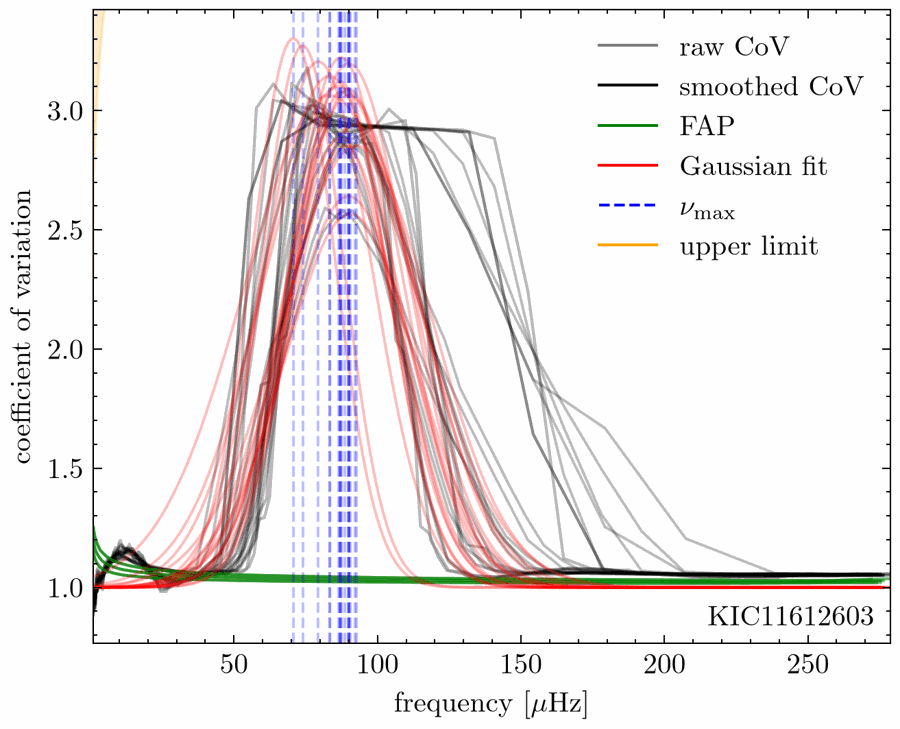
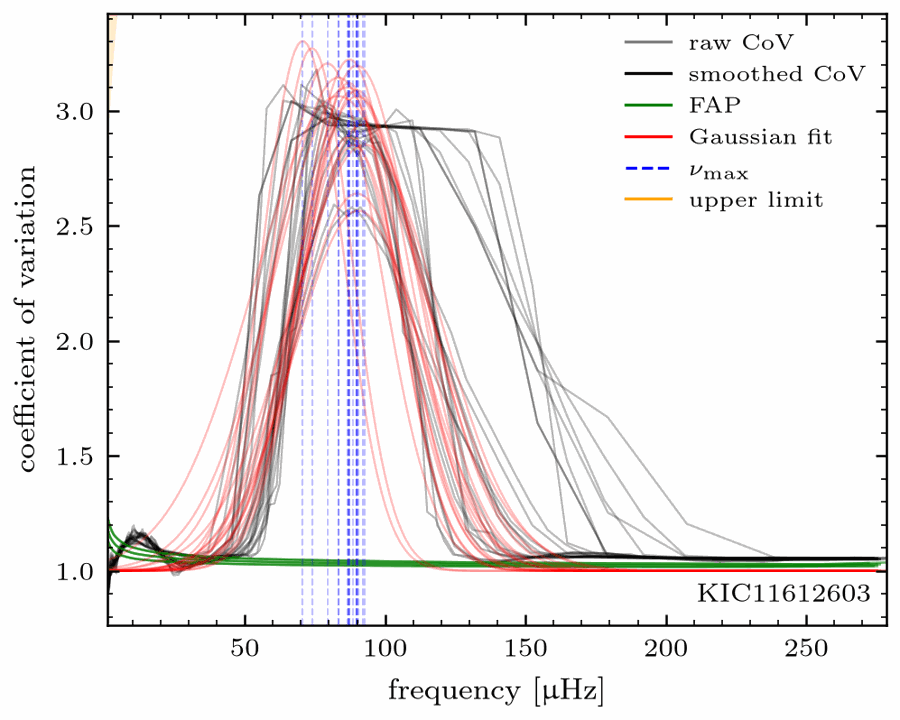
Figures one A&A column wide (8.8 cm), optional pdf output, upright mu
- All figures COLUMN_WIDTH = 8.8 cm, A&A font sizes (applied only while plotting)
- CONFIG.figure_format: png, pdf or [png, pdf]; spectra and 2D ACF rasterised at 600 dpi
  inside pdf files
- Upright mu (\upmu with LaTeX, unicode otherwise), "bin center", PSD in ppm^2/muHz
- README example figures regenerated

Changed region(s): [[0.0, 0.0, 0.9956, 0.9778]]

diff --git a/src/numax_proxies/plotting.py b/src/numax_proxies/plotting.py
@@ -1,4 +1,6 @@
-"""All figures. Each function saves into <results_directory>/<target>/figures/."""
+"""All figures, one A&A column wide (8.8 cm). Each function saves into
+<results_directory>/<target>/figures/ in the formats of CONFIG.figure_format (png, pdf)."""
+import functools
 from pathlib import Path
 
 import matplotlib
@@ -16,6 +18,46 @@ try:
 except ImportError:  # style is optional
     pass
 
+COLUMN_WIDTH = 8.8 / 2.54          # A&A column [inch]
+DPI = 300                          # png
+PDF_RASTER_DPI = 600               # rasterised parts (spectra, 2D ACF) inside pdf files
+AA_RC = {                          # applied only while the package draws a figure
+    "font.size": 8, "axes.labelsize": 8, "axes.titlesize": 8,
+    "xtick.labelsize": 7, "ytick.labelsize": 7, "legend.fontsize": 6,
+    "legend.title_fontsize": 6, "lines.linewidth": 0.8, "axes.linewidth": 0.6,
+    "xtick.major.width": 0.6, "ytick.major.width": 0.6,
+    "xtick.minor.width": 0.4, "ytick.minor.width": 0.4,
+}
+
+
+def _aa_style(func):
+    """Draw func's figure with AA_RC (and upgreek for an upright mu when LaTeX is used)."""
+    @functools.wraps(func)
+    def wrapper(*args, **kwargs):
+        rc = dict(AA_RC)
+        if plt.rcParams["text.usetex"]:
+            preamble = plt.rcParams["text.latex.preamble"]
+            if "upgreek" not in preamble:
+                rc["text.latex.preamble"] = preamble + r" \usepackage{upgreek}"
+        with plt.rc_context(rc):
+            return func(*args, **kwargs)
+    return wrapper
+
+
+def _mu() -> str:
+    """Upright micro sign: \\upmu under LaTeX, the unicode character otherwise."""
+    return r"$\upmu$" if plt.rcParams["text.usetex"] else "μ"
+
+
+def _freq_label(name: str = "frequency") -> str:
+    """Axis label "<name> [μHz]"."""
+    return f"{name} [{_mu()}Hz]"
+
+
+def _psd_label() -> str:
+    """Axis label "PSD [ppm²/μHz]"."""
+    return f"PSD [ppm$^2$/{_mu()}Hz]"
+
 
 def _figdir(config, target) -> Path:
     """Figure folder <results_directory>/<target>/figures (created)."""
@@ -24,14 +66,24 @@ def _figdir(config, target) -> Path:
     return path
 
 
+def _save(fig, config, target, name: str):
+    """Save fig as <name>.<format> for every format in config.figure_format, then close it."""
+    folder = _figdir(config, target)
+    for fmt in config.figure_format:
+        fig.savefig(folder / f"{name}.{fmt}", bbox_inches="tight",
+                    dpi=PDF_RASTER_DPI if fmt == "pdf" else DPI)
+    plt.close(fig)
+
+
 def _set_xlim(ax, cfg, fallback_max):
     """Set the x range to [min_freq, max_freq or fallback_max]."""
     ax.set_xlim(cfg.min_freq, cfg.max_freq if cfg.max_freq is not None else fallback_max)
 
 
 # --------------------------------------------------------------------------------------
+@_aa_style
 def plot_lightcurve_and_psd(lc, psd, config, target, trend=None, raw_flux=None):
-    """Save lc_and_pg.png: light curve (and Savitzky-Golay trend) and PSD.
+    """Save lc_and_pg: light curve (and Savitzky-Golay trend) and PSD.
 
     Args:
         lc: LightCurveData.
@@ -40,20 +92,20 @@ def plot_lightcurve_and_psd(lc, psd, config, target, trend=None, raw_flux=None):
         target: star name.
         trend, raw_flux: Savitzky-Golay filter and flux before detrending (optional).
     """
-    fig, axs = plt.subplots(2, 1, figsize=(12, 8))
+    fig, axs = plt.subplots(2, 1, figsize=(COLUMN_WIDTH, 4.2))
     if trend is not None:
-        axs[0].plot(lc.time, raw_flux, c="k", lw=2)
-        axs[0].plot(lc.time, trend, c="r", lw=2)
-        axs[0].text(0.02, 0.98, f"Savitzky-Golay window: {config.savgol_window} d", color="r",
-                    ha="left", va="top", transform=axs[0].transAxes)
+        axs[0].plot(lc.time, raw_flux, c="k", rasterized=True)
+        axs[0].plot(lc.time, trend, c="r", rasterized=True)
+        axs[0].text(0.02, 0.97, f"Savitzky-Golay window: {config.savgol_window} d", color="r",
+                    ha="left", va="top", transform=axs[0].transAxes, fontsize=6)
     else:
-        axs[0].plot(lc.time, lc.flux, c="k", lw=0, ms=3, marker=".")
+        axs[0].plot(lc.time, lc.flux, c="k", lw=0, ms=1, marker=".", rasterized=True)
     axs[0].set(xlabel="time [days]", ylabel="rel. flux [ppm]", xlim=(lc.time.min(), lc.time.max()))
-    axs[1].loglog(psd.frequency, psd.psd, c="k")
-    axs[1].set(xlabel=r"frequency [$\mu$Hz]", ylabel="PSD",
+    axs[1].loglog(psd.frequency, psd.psd, c="k", lw=0.4, rasterized=True)
+    axs[1].set(xlabel=_freq_label(), ylabel=_psd_label(),
                xlim=(psd.frequency.min(), psd.frequency.max()))
-    fig.savefig(_figdir(config, target) / "lc_and_pg.png", dpi=300, bbox_inches="tight")
-    plt.close(fig)
+    fig.tight_layout()
+    _save(fig, config, target, "lc_and_pg")
 
 
 # --------------------------------------------------------------------------------------
@@ -73,14 +125,14 @@ def plot_acf_map(ax, method):
     """Draw the 2D ACF of one grid setting into ax.
 
     Colour: r(k) / white-noise sd, blue = anticorrelated, white = noise, red = correlated.
-    Lag axis: units of Delta-nu(bin centre) for collapse delta_nu, muHz for all_lags.
+    Lag axis: units of Delta-nu(bin center) for collapse delta_nu, muHz for all_lags.
 
     Args:
         ax: matplotlib axes.
         method: NumaxFromACF after compute().
     """
     from .binning import log_numax_bins
-    from .methods.acf import acf_map
+    from .methods.acf import acf_map, band_edges
 
     cfg = method.cfg
     scale, factor = _acf_map_setting(cfg, method.results)
@@ -93,52 +145,54 @@ def plot_acf_map(ax, method):
     ax.pcolormesh(centres, lags, z, shading="nearest", cmap=ACF_MAP_CMAP, vmin=-4, vmax=4,
                   rasterized=True)
     if in_dnu:
-        from .methods.acf import band_edges
         lo, hi = band_edges(cfg.dnu_multiples, cfg.dnu_window, cfg.dnu_window_mode)
         hi[:-1] = np.minimum(hi[:-1], lo[1:])                    # trimmed like the lag bands
         for edge in np.concatenate([lo, hi]):
             if edge < factor:
-                ax.axhline(edge, c="k", ls=":", lw=0.8)
-        ax.set(ylabel=r"lag [$\Delta\nu(\nu_c)$]", ylim=(0, factor))
+                ax.axhline(edge, c="k", ls=":", lw=0.5)
+        ax.set(ylabel=r"lag [$\Delta\nu(\nu_\mathrm{c})$]", ylim=(0, factor))
     else:
-        ax.set(ylabel=r"lag [$\mu$Hz]", ylim=(0, lags[-1]))
-    ax.text(0.98, 0.95, f"overlap {scale:g}, width {factor:g}", ha="right", va="top",
-            transform=ax.transAxes, fontsize=7,
-            bbox=dict(facecolor="white", alpha=0.7, lw=0))
+        ax.set(ylabel=_freq_label("lag"), ylim=(0, lags[-1]))
+    ax.text(0.98, 0.96, f"overlap {scale:g}, width {factor:g}", ha="right", va="top",
+            transform=ax.transAxes, fontsize=6,
+            bbox=dict(facecolor="white", alpha=0.7, lw=0, pad=1))
 
 
+@_aa_style
 def plot_acf(method):
-    """Save ACF.png: spectrum, optional 2D ACF panel, CACF curves, thresholds and fits.
+    """Save ACF: spectrum, optional 2D ACF panel, CACF curves, thresholds and fits.
 
     Args:
         method: NumaxFromACF after compute().
     """
     cfg, results = method.cfg, method.results
     show_map = cfg.plot_2dacf is not False
-    fig, axs = plt.subplots(3 if show_map else 2, 1, figsize=(5, 10.5 if show_map else 7))
+    fig, axs = plt.subplots(3 if show_map else 2, 1,
+                            figsize=(COLUMN_WIDTH, 6.9 if show_map else 4.6))
     if show_map:
         plot_acf_map(axs[1], method)
         axs = [axs[0], axs[2], axs[1]]          # [spectrum, CACF, map]
 
     ax = axs[0]
-    ax.loglog(method.frequency, method.power, c="gray", label="spectrum")
+    ax.loglog(method.frequency, method.power, c="gray", lw=0.4, label="spectrum", rasterized=True)
     ax.loglog(method.frequency, method.med_filter, c="k", label="running median")
-    ax.set(xlabel=r"frequency [$\mu$Hz]", ylabel="PSD")
-    ax.text(0.02, 0.98, method.id, ha="left", va="top", transform=ax.transAxes)
+    ax.set(xlabel=_freq_label(), ylabel=_psd_label())
+    ax.text(0.02, 0.96, method.id, ha="left", va="top", transform=ax.transAxes, fontsize=7)
     ax.legend(loc="lower left")
     _set_xlim(ax, cfg, np.max(method.frequency))
 
     ax = axs[1]
     for data in results.values():
         bcs = np.asarray(data["bin_centers"])
-        ax.plot(bcs, data["cacf_raw"], c="gray", alpha=0.4, zorder=-3)
-        ax.plot(bcs, data["cacf_smoothed"], c="k", alpha=0.4, zorder=-2)
-        ax.plot(bcs, data["fap"], c="green", alpha=0.1, zorder=0)
+        ax.plot(bcs, data["cacf_raw"], c="gray", alpha=0.4, lw=0.5, zorder=-3)
+        ax.plot(bcs, data["cacf_smoothed"], c="k", alpha=0.4, lw=0.6, zorder=-2)
+        ax.plot(bcs, data["fap"], c="green", alpha=0.1, lw=0.6, zorder=0)
         p = data["fit_params"]
         if np.isfinite(p["numax"]):
             x = np.linspace(bcs.min(), bcs.max(), len(bcs) * 10)
-            ax.plot(x, gaussian(x, p["amp"], p["sigma"], p["numax"], p["y"]), c="r", alpha=0.4, zorder=-1)
-            ax.axvline(p["numax"], c="b", ls="--", alpha=0.3, zorder=1)
+            ax.plot(x, gaussian(x, p["amp"], p["sigma"], p["numax"], p["y"]), c="r", alpha=0.4,
+                    lw=0.6, zorder=-1)
+            ax.axvline(p["numax"], c="b", ls="--", lw=0.5, alpha=0.3, zorder=1)
     handles = [Line2D([0], [0], color="gray", label="raw CACF"),
                Line2D([0], [0], color="k", label="smoothed CACF"),
                Line2D([0], [0], color="r", label="Gaussian fit"),
@@ -147,44 +201,45 @@ def plot_acf(method):
     if method.initial_numax:
         ax.axvline(method.initial_numax, c="green", ls="-.")
         handles.append(Line2D([0], [0], color="green", ls="-.", label="initial guess"))
-    ax.legend(handles=handles)
+    ax.legend(handles=handles, loc="upper right")
     ylabel = "CACF" if cfg.collapse == "all_lags" else r"CACF ($\Delta\nu$ lags)"
-    ax.set(xlabel=r"frequency [$\mu$Hz]", ylabel=ylabel)
+    ax.set(xlabel=_freq_label(), ylabel=ylabel)
     xmax = max(np.max(d["bin_centers"]) for d in results.values())
     for a in ([ax, axs[2]] if show_map else [ax]):
         if cfg.plot_log_scale:
             a.set_xscale("log")
         _set_xlim(a, cfg, xmax)
     if show_map:
-        axs[2].set_xlabel(r"bin centre [$\mu$Hz]")
-
-    fig.savefig(_figdir(method.config, method.id) / "ACF.png", dpi=300, bbox_inches="tight")
-    plt.close(fig)
+        axs[2].set_xlabel(_freq_label("bin center"))
+    fig.tight_layout()
+    _save(fig, method.config, method.id, "ACF")
 
 
 # --------------------------------------------------------------------------------------
+@_aa_style
 def plot_cov(method):
-    """Save CoVs.png: CoV curves, thresholds, fits and the CoV upper limit.
+    """Save CoVs: CoV curves, thresholds, fits and the CoV upper limit.
 
     Args:
         method: NumaxFromCoV after compute().
     """
     cfg, results = method.cfg, method.results
-    fig, ax = plt.subplots(figsize=(5, 4))
+    fig, ax = plt.subplots(figsize=(COLUMN_WIDTH, 2.8))
     alpha = 0.25
     for data in results.values():
         bcs = np.asarray(data["bin_centers"])
-        ax.plot(bcs, data["cov"], c="gray", alpha=alpha, zorder=-5)
-        ax.plot(bcs, data["cov_smoothed"], c="k", alpha=alpha, zorder=-4)
-        ax.plot(bcs, data["fap"], c="green", alpha=alpha, zorder=-3)
+        ax.plot(bcs, data["cov"], c="gray", alpha=alpha, lw=0.5, zorder=-5)
+        ax.plot(bcs, data["cov_smoothed"], c="k", alpha=alpha, lw=0.6, zorder=-4)
+        ax.plot(bcs, data["fap"], c="green", alpha=alpha, lw=0.6, zorder=-3)
         p = data["fit_params"]
         if all(np.isfinite([p["amp"], p["sigma"], p["numax"]])):
             x = np.linspace(bcs.min(), bcs.max(), len(bcs) * 10)
-            ax.plot(x, gaussian_offset_one(x, p["amp"], p["sigma"], p["numax"]), c="r", alpha=alpha, zorder=-2)
-            ax.axvline(p["numax"], c="b", ls="--", alpha=alpha, zorder=-1)
+            ax.plot(x, gaussian_offset_one(x, p["amp"], p["sigma"], p["numax"]), c="r",
+                    alpha=alpha, lw=0.6, zorder=-2)
+            ax.axvline(p["numax"], c="b", ls="--", lw=0.5, alpha=alpha, zorder=-1)
     ymin, ymax = ax.get_ylim()
     x = np.linspace(1e-3, 1e4, 10000)
-    ax.fill_between(x, cov_upper_limit(x), 50, color="orange", alpha=0.2, zorder=-6)
+    ax.fill_between(x, cov_upper_limit(x), 50, color="orange", alpha=0.2, lw=0, zorder=-6)
     ax.set_ylim(ymin, ymax)
     handles = [Line2D([0], [0], color="gray", label="raw CoV"),
                Line2D([0], [0], color="k", label="smoothed CoV"),
@@ -195,14 +250,14 @@ def plot_cov(method):
     if method.initial_numax:
         ax.axvline(method.initial_numax, c="green", ls="-.")
         handles.append(Line2D([0], [0], color="green", ls="-.", label="initial guess"))
-    ax.legend(handles=handles)
-    ax.text(0.98, 0.02, method.id, ha="right", va="bottom", transform=ax.transAxes)
-    ax.set(xlabel=r"frequency [$\mu$Hz]", ylabel="coefficient of variation")
+    ax.legend(handles=handles, loc="upper right")
+    ax.text(0.98, 0.03, method.id, ha="right", va="bottom", transform=ax.transAxes, fontsize=7)
+    ax.set(xlabel=_freq_label(), ylabel="coefficient of variation")
     if cfg.plot_log_scale:
         ax.set_xscale("log")
     _set_xlim(ax, cfg, max(np.max(d["bin_centers"]) for d in results.values()))
-    fig.savefig(_figdir(method.config, method.id) / "CoVs.png", dpi=300, bbox_inches="tight")
-    plt.close(fig)
+    fig.tight_layout()
+    _save(fig, method.config, method.id, "CoVs")
 
 
 # --------------------------------------------------------------------------------------
@@ -214,8 +269,9 @@ STYLES = {  # label substring -> (line style, colour, legend label)
 }
 
 
+@_aa_style
 def plot_spectrum_with_all_numax_estimates(psd, star, numax_estimates, config):
-    """Save full_spectrum_with_all_estimates.png.
+    """Save full_spectrum_with_all_estimates.
 
     Args:
         psd: PSDData.
@@ -223,8 +279,8 @@ def plot_spectrum_with_all_numax_estimates(psd, star, numax_estimates, config):
         numax_estimates: {label: ufloat}.
         config: ProcessingConfig.
     """
-    fig, ax = plt.subplots(figsize=(4, 3))
-    ax.loglog(psd.frequency, psd.psd, c="gray")
+    fig, ax = plt.subplots(figsize=(COLUMN_WIDTH, 2.6))
+    ax.loglog(psd.frequency, psd.psd, c="gray", lw=0.4, rasterized=True)
     for label, numax in numax_estimates.items():
         val, err = getattr(numax, "n", numax), getattr(numax, "s", None)
         if not np.isfinite(val):
@@ -234,10 +290,9 @@ def plot_spectrum_with_all_numax_estimates(psd, star, numax_estimates, config):
         text = f"{val:.1f} ± {err:.1f}" if err is not None else f"{val:.1f}"
         ax.axvline(val, linestyle=ls, c=c, label=f"{name}: {text}")
         if err is not None and np.isfinite(err):
-            ax.axvspan(val - err, val + err, alpha=0.2, color=c)
-    ax.set(xlabel=r"frequency [$\mu$Hz]", ylabel="PSD",
+            ax.axvspan(val - err, val + err, alpha=0.2, color=c, lw=0)
+    ax.set(xlabel=_freq_label(), ylabel=_psd_label(),
            xlim=(psd.frequency.min(), psd.frequency.max()))
-    ax.legend(loc="lower left", title=f"{star.target} " + r"$\nu_\mathrm{max}$ [$\mu$Hz]")
-    fig.savefig(_figdir(config, star.target) / "full_spectrum_with_all_estimates.png",
-                dpi=300, bbox_inches="tight")
-    plt.close(fig)
+    ax.legend(loc="lower left", title=f"{star.target} " + r"$\nu_\mathrm{max}$ " + f"[{_mu()}Hz]")
+    fig.tight_layout()
+    _save(fig, config, star.target, "full_spectrum_with_all_estimates")

diff --git a/src/numax_proxies/config.py b/src/numax_proxies/config.py
@@ -106,13 +106,18 @@ class ProcessingConfig:
     save_avgpsd: bool = False
     save_results: bool = False
     results_directory: str = "results"
+    figure_format: Union[str, list] = "png"  # png, pdf, or [png, pdf] (figures 8.8 cm wide)
 
     def __post_init__(self):
-        """Check avg_psd_method and avg_psd_overlap."""
+        """Check avg_psd_method, avg_psd_overlap and figure_format."""
         if self.avg_psd_method not in ("median", "mean"):
             raise ValueError("CONFIG.avg_psd_method must be 'median' or 'mean'")
         if not 0 <= self.avg_psd_overlap < 1:
             raise ValueError("CONFIG.avg_psd_overlap must be in [0, 1)")
+        formats = [str(f).lower().lstrip(".") for f in np.atleast_1d(self.figure_format)]
+        if not formats or any(f not in ("png", "pdf") for f in formats):
+            raise ValueError("CONFIG.figure_format must be 'png', 'pdf' or a list of them")
+        self.figure_format = list(dict.fromkeys(formats))
 
 
 @dataclass

diff --git a/README.md b/README.md
@@ -192,7 +192,8 @@ Relative input paths are resolved relative to the YAML file. See
 | author, quarter, sector, mission | null | lightkurve download |
 | logg, teff, radius, mass, luminosity (+ `_err`) | null | lists, one value per source |
 
-**LIGHTCURVE / PSD**: `lc_file`, `fits_file_folder`, `psd_file`, `avg_psd_file` (all null).
+**LIGHTCURVE / PSD**: `lc_file`, `fits_file_folder`, `psd_file`, `avg_psd_file` (all null). Figures label the PSD in ppm²/µHz, the unit of spectra computed
+by the package (and of KEPSEISMIC/KASOC files); PSD files in other units are plotted unchanged.
 
 **CONFIG**
 | key | default | |
@@ -211,6 +212,7 @@ Relative input paths are resolved relative to the YAML file. See
 | query_gaia | false | Gaia DR3 Teff, logg, M, R, L for the scaling relations |
 | initial_numax | null | skip the automatic first guess (µHz) |
 | n_threads | null | Numba threads (null: Numba default) |
+| figure_format | png | `png`, `pdf` or `[png, pdf]`; all figures are one A&A column (8.8 cm) wide; in pdf files spectra and the 2D ACF are rasterised at 600 dpi |
 | random_seed | 42 | every random number in the pipeline |
 | plot_lc, save_lc, save_psd, save_avgpsd, save_results | false | outputs |
 | results_directory | results | relative to the working directory |
